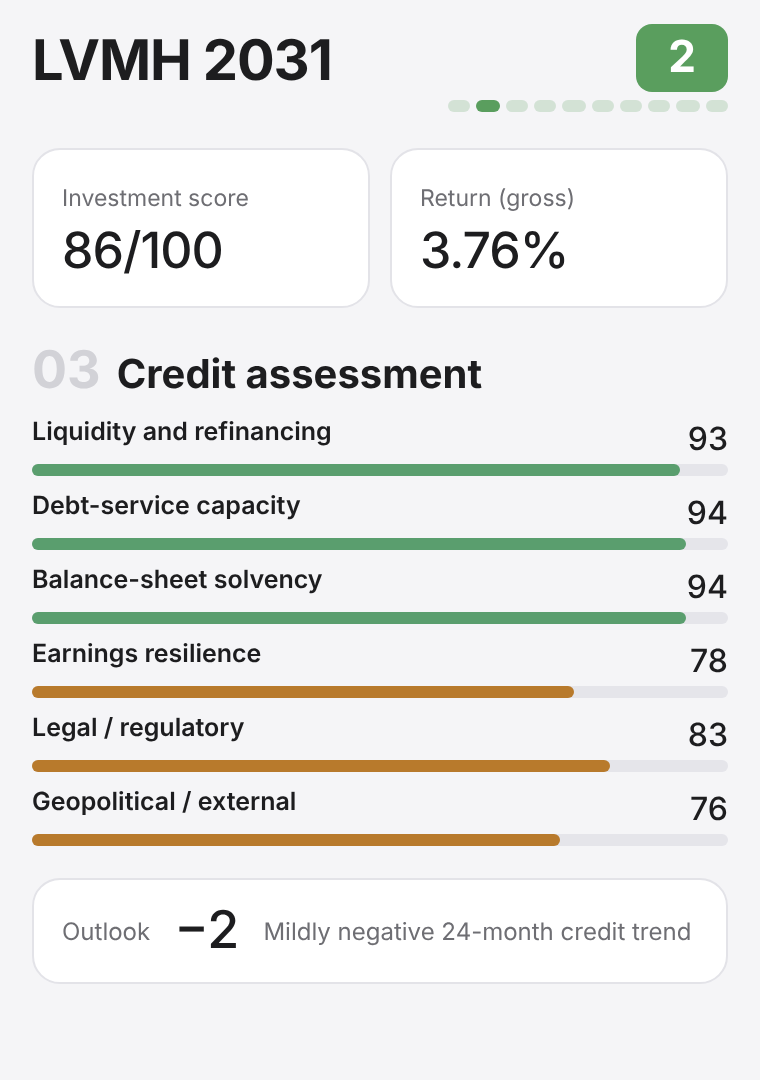
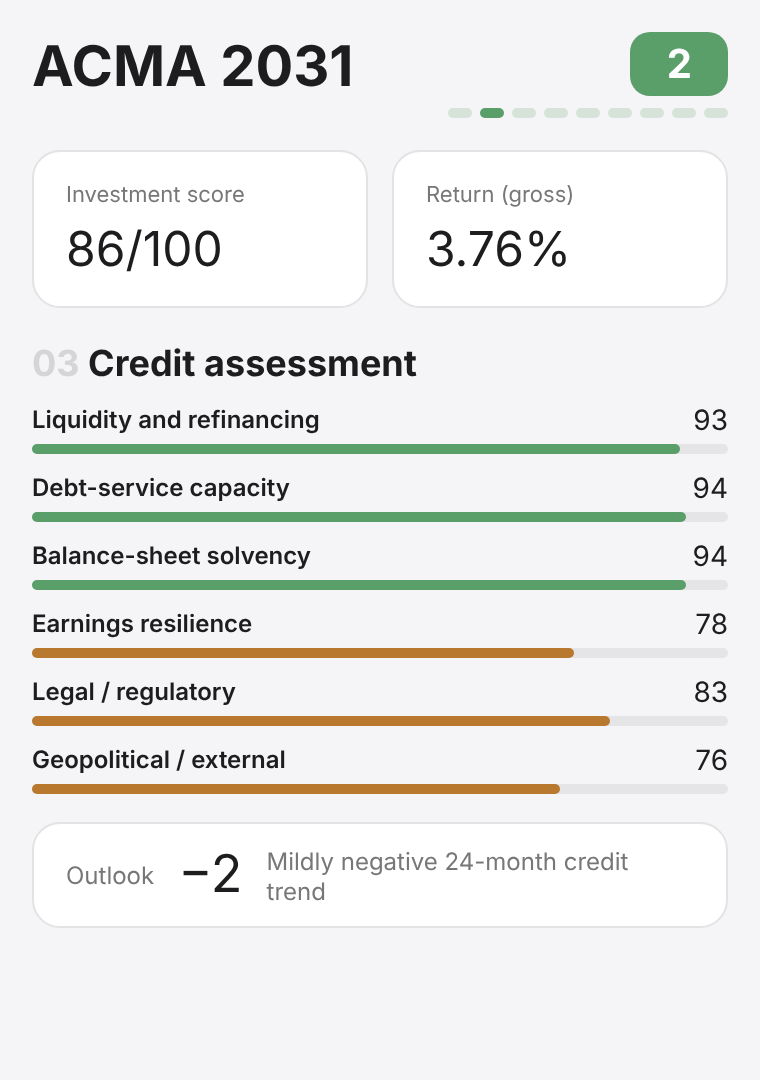
Replace LVMH sample with fictional ACMA GmbH (new placeholder ISIN, carousel images, old links redirect)
Claude-Session: https://claude.ai/code/session_015WkY85rcmH9CHnwSfbqZUe

diff --git a/lib/landingText.ts b/lib/landingText.ts
@@ -84,13 +84,13 @@ const en = {
       company: ["Check company risk", "Check company risk"],
     },
     yrs: "yrs",
-    countryAlt: "Brazil country risk page", companyAlt: "LVMH 2031 bond: risk rating, key data and credit assessment",
+    countryAlt: "Brazil country risk page", companyAlt: "ACMA 2031 bond: risk rating, key data and credit assessment",
     heatKey: "Return per year (up) · years (across) · colour = expected loss · framed = safest maturity for that return", heatKeyShort: "Colour = expected loss · framed = safest",
     locale: "en-GB", label: "What 10bonds shows", slide: "Slide", prev: "Previous", next: "Next",
     frontierShort: "Best return/risk portfolio", frontier: "Finding the best return/risk portfolio", lossAxis: "Expected loss on the money invested",
     curveShort: "One bond, every risk level", curve: "One bond: best return for each risk level", curveX: "Higher risk → lower risk", curveCta: "Free with sign-up →",
     list: "Portfolio: top 10 bonds", bond: "Bond", maturity: "Maturity", risk: "Risk", ret: "Return",
-    country: "Country risk", company: "Company risk", sector: "Luxury goods · France", rating: "10bonds.com rating",
+    country: "Country risk", company: "Company risk", sector: "Consumer brands · Germany", rating: "10bonds.com rating",
     scale: "Risk 1 (lowest) to 10 (highest).",
     countries: { de: "Germany", nl: "Netherlands", fr: "France", es: "Spain", it: "Italy", ro: "Romania" },
   },
@@ -172,13 +172,13 @@ const it: LandingText = {
       company: ["Verifica il rischio società", "Verifica il rischio società"],
     },
     yrs: "anni",
-    countryAlt: "Pagina del rischio paese: Brasile", companyAlt: "Obbligazione LVMH 2031: rating di rischio, dati chiave e valutazione del credito",
+    countryAlt: "Pagina del rischio paese: Brasile", companyAlt: "Obbligazione ACMA 2031: rating di rischio, dati chiave e valutazione del credito",
     heatKey: "Rendimento annuo (su) · anni (in orizzontale) · colore = perdita attesa · riquadro = scadenza più sicura per quel rendimento", heatKeyShort: "Colore = perdita attesa · riquadro = più sicura",
     locale: "it-IT", label: "Cosa mostra 10bonds", slide: "Immagine", prev: "Precedente", next: "Successiva",
     frontierShort: "Miglior portafoglio", frontier: "Alla ricerca del miglior portafoglio rendimento/rischio", lossAxis: "Perdita attesa sul capitale investito",
     curveShort: "Un'obbligazione, ogni rischio", curve: "Un'obbligazione: miglior rendimento per livello di rischio", curveX: "Rischio più alto → più basso", curveCta: "Gratis con la registrazione →",
     list: "Portafoglio: le 10 obbligazioni top", bond: "Obbligazione", maturity: "Scadenza", risk: "Rischio", ret: "Rendimento",
-    country: "Rischio paese", company: "Rischio società", sector: "Beni di lusso · Francia", rating: "Rating 10bonds.com",
+    country: "Rischio paese", company: "Rischio società", sector: "Marchi di consumo · Germania", rating: "Rating 10bonds.com",
     scale: "Rischio da 1 (minimo) a 10 (massimo).",
     countries: { de: "Germania", nl: "Paesi Bassi", fr: "Francia", es: "Spagna", it: "Italia", ro: "Romania" },
   },
@@ -259,13 +259,13 @@ const fr: LandingText = {
       company: ["Vérifier le risque entreprise", "Risque entreprise"],
     },
     yrs: "ans",
-    countryAlt: "Page du risque pays : Brésil", companyAlt: "Obligation LVMH 2031 : notation de risque, données clés et évaluation du crédit",
+    countryAlt: "Page du risque pays : Brésil", companyAlt: "Obligation ACMA 2031 : notation de risque, données clés et évaluation du crédit",
     heatKey: "Rendement annuel (vertical) · années (horizontal) · couleur = perte attendue · encadré = échéance la plus sûre pour ce rendement", heatKeyShort: "Couleur = perte attendue · encadré = plus sûre",
     locale: "fr-FR", label: "Ce que montre 10bonds", slide: "Image", prev: "Précédente", next: "Suivante",
     frontierShort: "Meilleur portefeuille", frontier: "Trouver le meilleur portefeuille rendement/risque", lossAxis: "Perte attendue sur le capital investi",
     curveShort: "Une obligation, chaque risque", curve: "Une obligation : meilleur rendement par niveau de risque", curveX: "Risque plus élevé → plus faible", curveCta: "Gratuit avec inscription →",
     list: "Portefeuille : les 10 obligations top", bond: "Obligation", maturity: "Échéance", risk: "Risque", ret: "Rendement",
-    country: "Risque pays", company: "Risque entreprise", sector: "Luxe · France", rating: "Notation 10bonds.com",
+    country: "Risque pays", company: "Risque entreprise", sector: "Marques grand public · Allemagne", rating: "Notation 10bonds.com",
     scale: "Risque de 1 (le plus bas) à 10 (le plus haut).",
     countries: { de: "Allemagne", nl: "Pays-Bas", fr: "France", es: "Espagne", it: "Italie", ro: "Roumanie" },
   },
@@ -346,13 +346,13 @@ const de: LandingText = {
       company: ["Unternehmensrisiko prüfen", "Unternehmensrisiko"],
     },
     yrs: "J.",
-    countryAlt: "Länderrisiko-Seite: Brasilien", companyAlt: "Anleihe LVMH 2031: Risikorating, Kennzahlen und Kreditbewertung",
+    countryAlt: "Länderrisiko-Seite: Brasilien", companyAlt: "Anleihe ACMA 2031: Risikorating, Kennzahlen und Kreditbewertung",
     heatKey: "Rendite p. a. (senkrecht) · Jahre (waagrecht) · Farbe = erwarteter Verlust · Rahmen = sicherste Laufzeit für diese Rendite", heatKeyShort: "Farbe = erwarteter Verlust · Rahmen = am sichersten",
     locale: "de-DE", label: "Was 10bonds zeigt", slide: "Bild", prev: "Zurück", next: "Weiter",
     frontierShort: "Bestes Portfolio", frontier: "Das beste Rendite-Risiko-Portfolio finden", lossAxis: "Erwarteter Verlust auf das investierte Kapital",
     curveShort: "Eine Anleihe, jedes Risiko", curve: "Eine Anleihe: beste Rendite je Risikostufe", curveX: "Höheres Risiko → niedrigeres", curveCta: "Gratis mit Anmeldung →",
     list: "Portfolio: die Top-10-Anleihen", bond: "Anleihe", maturity: "Fälligkeit", risk: "Risiko", ret: "Rendite",
-    country: "Länderrisiko", company: "Unternehmensrisiko", sector: "Luxusgüter · Frankreich", rating: "10bonds.com-Rating",
+    country: "Länderrisiko", company: "Unternehmensrisiko", sector: "Konsumgütermarken · Deutschland", rating: "10bonds.com-Rating",
     scale: "Risiko 1 (niedrigstes) bis 10 (höchstes).",
     countries: { de: "Deutschland", nl: "Niederlande", fr: "Frankreich", es: "Spanien", it: "Italien", ro: "Rumänien" },
   },

diff --git a/lib/companiesInFocus.ts b/lib/companiesInFocus.ts
@@ -39,9 +39,9 @@ export type FocusCompany = {
 
 export const COMPANIES_IN_FOCUS: FocusCompany[] = [
   {
-    isin: "FR0013482841",
-    name: "LVMH",
-    issuer: "LVMH Moët Hennessy Louis Vuitton SE",
+    isin: "DE000ACMA031",
+    name: "ACMA 2031",
+    issuer: "ACMA GmbH",
     free: true,
     updated: "24 Oct 2026",
     score: 86,
@@ -52,11 +52,11 @@ export const COMPANIES_IN_FOCUS: FocusCompany[] = [
     outlookNote: "Mildly negative 24-month credit trend (provisional)",
     seniority: "Senior unsecured",
     maturity: "11 Feb 2031",
-    risksShort: "China demand, luxury slowdown, tariffs, earnings valuation",
+    risksShort: "Asia demand, consumer slowdown, tariffs, earnings valuation",
     summary:
       "High credit quality and repayment in EUR in just over four years. The weak point is the very low 0.375% coupon, but buying below par gives a large redemption gain if the issuer repays at 100.",
     terms: [
-      ["WKN", "A28TL4"],
+      ["WKN", "ACMA03"],
       ["Issue date", "11 Feb 2020"],
       ["Issue size", "€1.5bn"],
       ["Coupon", "0.375% fixed, paid 11 Feb yearly"],
@@ -64,7 +64,7 @@ export const COMPANIES_IN_FOCUS: FocusCompany[] = [
       ["Minimum", "€100,000"],
       ["Seniority", "Senior unsecured (unsubordinated)"],
       ["Call", "Indicated; check prospectus"],
-      ["French WHT", "To be verified"],
+      ["German WHT", "To be verified"],
     ],
     quotes: [
       ["Exchange (ask)", "17 Sep 2026", "86.53", "3.83%"],
@@ -81,14 +81,14 @@ export const COMPANIES_IN_FOCUS: FocusCompany[] = [
       ["Equity", "€66.88bn", "€69.69bn", "+4%"],
     ],
     financialsNote:
-      "Lower debt and strong free cash flow reassure bondholders. 9M 2026 revenue €57.15bn (+2% organic), but Fashion & Leather Goods fell 5% organically in Q3 on softer China.",
+      "Lower debt and strong free cash flow reassure bondholders. 9M 2026 revenue €57.15bn (+2% organic), but Premium Brands fell 5% organically in Q3 on softer Asia demand.",
     scorecard: [
       ["Liquidity and refinancing", "Strong cash generation, low net debt", 93],
       ["Debt-service capacity", "Strong recurring profitability", 94],
       ["Balance-sheet solvency", "Strong equity, modest leverage", 94],
-      ["Earnings resilience", "Luxury cycle, China exposure", 78],
+      ["Earnings resilience", "Consumer cycle, Asia exposure", 78],
       ["Legal / regulatory", "Tariffs, trade-policy uncertainty", 83],
-      ["Geopolitical / external", "China demand, trade disruption", 76],
+      ["Geopolitical / external", "Asia demand, trade disruption", 76],
     ],
     scorecardNote: "Provisional internal scores, not default probabilities. Three-year review and prospectus check outstanding.",
     capital: [
@@ -100,9 +100,9 @@ export const COMPANIES_IN_FOCUS: FocusCompany[] = [
       ["Equity", "Highest", "Not a bond"],
     ],
     tax:
-      "France generally exempts interest paid to non-residents from withholding tax (domestic rule, no treaty needed; non-cooperative jurisdictions excluded). Expected 0%, subject to custodian and beneficial-owner papers, so net return before your own taxes is close to gross.",
+      "Germany generally does not withhold tax on interest from ordinary corporate bonds paid to non-residents. Expected 0%, subject to custodian and beneficial-owner papers, so net return before your own taxes is close to gross.",
     risks: [
-      ["China and luxury demand", "Biggest operating risk, mainly Fashion & Leather Goods; a long slowdown would cut margins and cash."],
+      ["Asia and consumer demand", "Biggest operating risk, mainly Premium Brands; a long slowdown would cut margins and cash."],
       ["Tariffs and geopolitics", "Trade barriers could lower sales or raise costs."],
       ["Terms and execution", "Early-redemption terms and a current executable price still to be confirmed."],
     ],

diff --git a/components/LandingCarousel.tsx b/components/LandingCarousel.tsx
@@ -5,7 +5,7 @@ import Link from "next/link";
 import { FrontierScreen, CurvesScreen, HeatScreen, OneBondScreen, ListScreen } from "@/components/LandingScreens";
 import type { LandingText } from "@/lib/landingText";
 
-const LVMH = "FR0013482841";
+const ACMA = "DE000ACMA031";
 
 const NAVY = "#112D3B";
 const EVERY = 3000; // ms per slide (the owner, 24/10/2026)
@@ -116,11 +116,11 @@ export function CountrySlide({ t }: { t: LandingText }) {
   );
 }
 
-/** One company: the LVMH 2031 key data (rating, score, return, credit factors), a fixed image so it never shifts. */
+/** One company: the ACMA 2031 key data (rating, score, return, credit factors), a fixed image so it never shifts. */
 export function CompanySlide({ t }: { t: LandingText }) {
   const c = t.carousel;
   return (
-    <SlideCard title={actionTitle(c.act.company)} href={`/risk-assessment/${LVMH}`}>
+    <SlideCard title={actionTitle(c.act.company)} href={`/risk-assessment/${ACMA}`}>
       <div className="relative min-h-0 flex-1 overflow-hidden rounded-[12px] border border-[#e3ebe7] bg-[#F5F5F7]">
         {/* eslint-disable-next-line @next/next/no-img-element */}
         <img src="/carousel-company-phone.png" alt={c.companyAlt} className="absolute inset-0 h-full w-full object-cover object-top sm:hidden" />

diff --git a/lib/bondReport.test.ts b/lib/bondReport.test.ts
@@ -11,8 +11,8 @@ const NOW = Date.parse("2026-10-25T00:00:00Z");
 
 describe("buildReport", () => {
   it("returns null with no bond and no research", () => expect(buildReport("XS0000000001", null, null)).toBeNull());
-  it("LVMH: curated research with a dated price", () => {
-    const r = buildReport("FR0013482841", null, findCompany("FR0013482841")!, NOW)!;
+  it("ACMA: curated research with a dated price", () => {
+    const r = buildReport("DE000ACMA031", null, findCompany("DE000ACMA031")!, NOW)!;
     expect(r.free).toBe(true);
     expect(r.kpis.score.text).toBe("86/100");
     expect(r.conclusion.outlook).toBe(-2);

diff --git a/lib/issuerGroups.ts b/lib/issuerGroups.ts
@@ -312,7 +312,6 @@ h m finance
 harley davidson finance
 jaguar land rover
 kering
-lvmh moet henn l vuitton | lvmh
 magna international
 mahle
 mcdonald s
